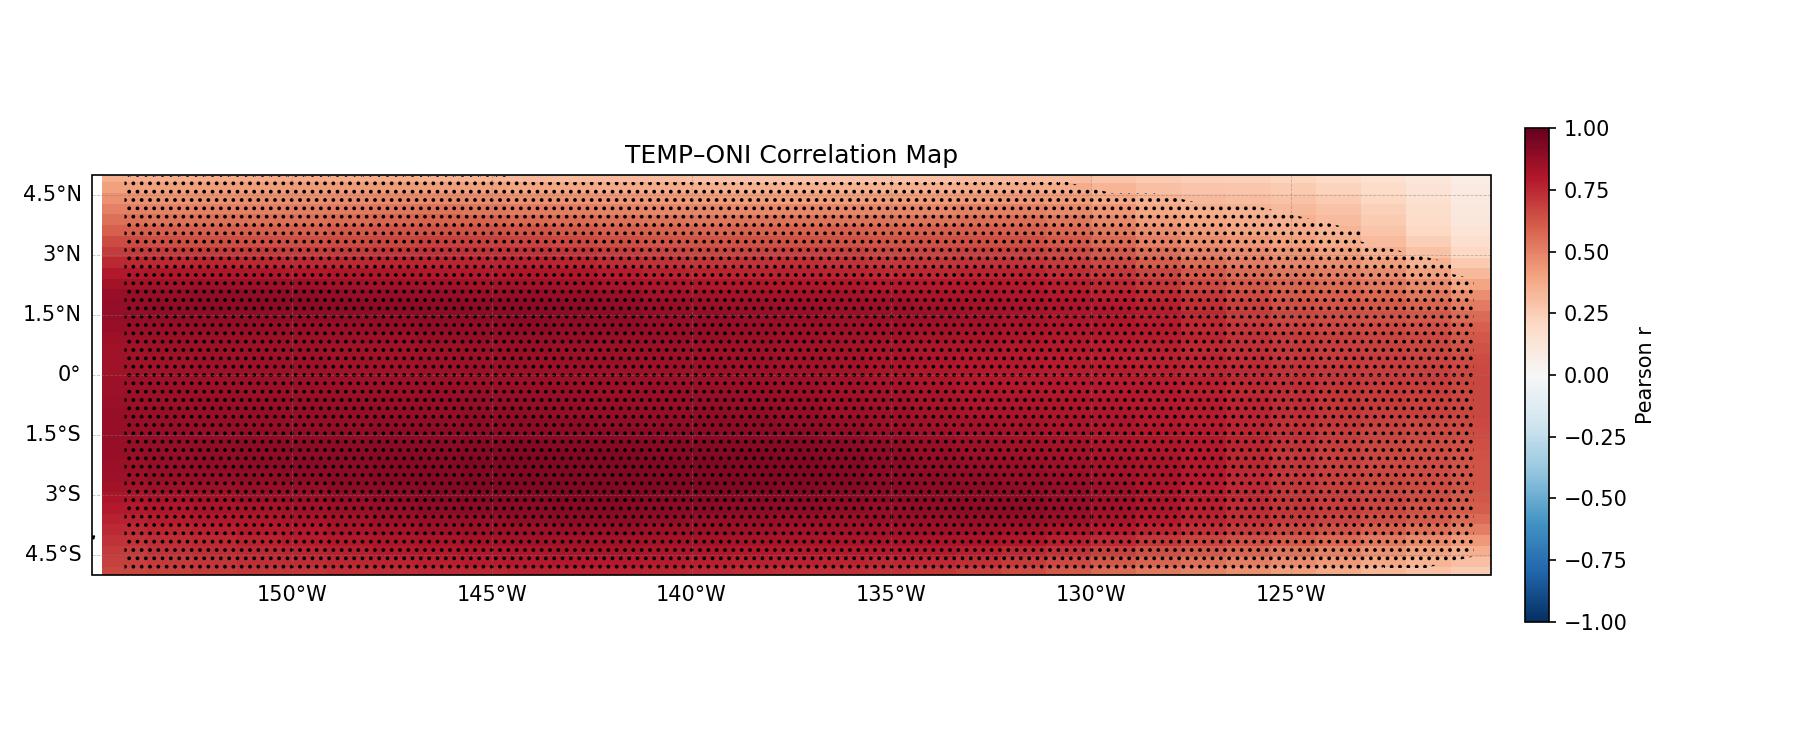
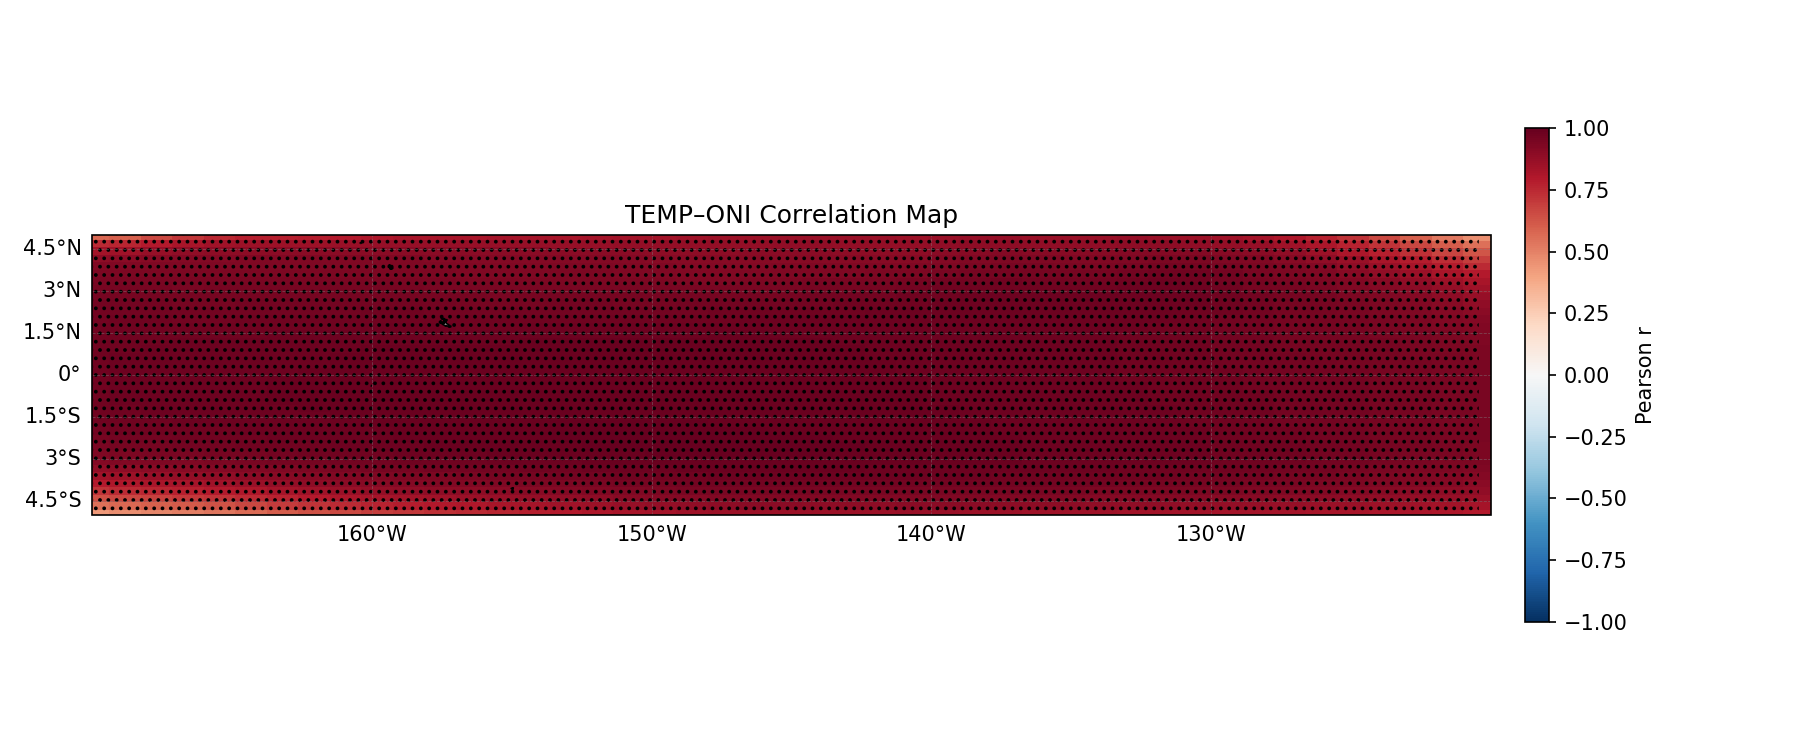
added variable and index arguments for launching (still need to make more universal functions)

diff --git a/ocn_cli_analysis/ocean_climate_ensemble.py b/ocn_cli_analysis/ocean_climate_ensemble.py
@@ -1,10 +1,9 @@
 """
 ocean_climate_ensemble.py
 =========================
-CESM2 Large Ensemble — Ocean Temperature × ENSO Analysis
+CESM2 Large Ensemble — Ocean Variables × Climate Index Analysis
 ---------------------------------------------------------
-Pipeline
-  1. Load TEMP over the ENSO box (CLI-specified region), member 0 only
+  1. Load TEMP over the Lat/Lon box (CLI-specified region), member 0 only
   2. Compute Niño-3.4 index and ONI
   3. Classify ENSO phase (El Niño / La Niña / Neutral)
   4. Time series: ONI and TEMP anomaly
@@ -14,12 +13,14 @@ Pipeline
 
 Usage
 -----
-python ocean_climate_ensemble.py \\
-    --component ocn \\
-    --scenario historical \\
-    --forcing cmip6 \\
-    --time-slice 1990-01 2014-12 \\
-    --lat-box 5 -5 \\
+python ocean_climate_ensemble.py
+    --component ocn 
+    --scenario historical 
+    --forcing cmip6 
+    --variable TEMP
+    --index ENSO
+    --time-slice 1990-01 2014-12 
+    --lat-box 5 -5 
     --lon-box -155 -120
 """
 
@@ -28,19 +29,18 @@ import argparse
 import numpy as np
 import xarray as xr
 
-from loader import _get_dataset, compute_anomaly
+from loader import _get_dataset#, compute_anomaly
 from enso import compute_nino34, compute_oni, classify_enso
 from lag import lag_correlation
 from correlation import correlation_map, significance_mask
-from composite import composite_by_phase, composite_difference
 import timeseries
 
 
-def load_enso_box(members, *, component, scenario, forcing,time_slice, lat_box, lon_box):
+def load_CESM2_box(members, *, component, scenario, forcing, variable, time_slice, lat_box, lon_box):
     """Load TEMP over the specified box for given member(s)."""
     print("Loading TEMP")
     da = _get_dataset(
-        "TEMP",
+        variable,
         component=component,
         scenario=scenario,
         forcing=forcing,
@@ -61,11 +61,13 @@ def spatial_mean_ts(da: xr.DataArray) -> xr.DataArray:
 
 
 def main():
-    parser = argparse.ArgumentParser(description="CESM2-LE Ocean Temperature × ENSO analysis")
+    parser = argparse.ArgumentParser(description="CESM2-LE Ocean Temperature ENSO analysis")
     
     parser.add_argument("--component",  type=str, required=True,choices=["atm", "ocn"])
     parser.add_argument("--scenario",   type=str, required=True,choices=["historical", "ssp370"])
     parser.add_argument("--forcing",    type=str, required=True,choices=["cmip6", "smbb"])
+    parser.add_argument("--variable",   type=str, required=True)
+    parser.add_argument("--index",      type=str, required=True)
     parser.add_argument("--time-slice", type=str, nargs=2, required=True,metavar=("START", "END"),help="e.g. 1990-01 2014-12")
     parser.add_argument("--lat-box",    type=float, nargs=2, required=True,metavar=("NORTH", "SOUTH"),help="e.g. 5 -5  (north first)")
     parser.add_argument("--lon-box",    type=float, nargs=2, required=True,metavar=("WEST", "EAST"),help="e.g. -155 -120  (negative °W accepted)")
@@ -76,6 +78,8 @@ def main():
     COMPONENT  = args.component
     SCENARIO   = args.scenario
     FORCING    = args.forcing
+    VARIABLE   = str(args.variable)
+    INDEX      = str(args.index)
     TIME_SLICE = tuple(args.time_slice)
     LAT_BOX    = tuple(args.lat_box)
     LON_BOX    = tuple(args.lon_box)
@@ -85,15 +89,17 @@ def main():
     # -----------------------------------------------------------------------
     # 1. Load data — member 0 only
     # -----------------------------------------------------------------------
-    da_m0 = load_enso_box(
-        members=0,
-        component=COMPONENT,
-        scenario=SCENARIO,
-        forcing=FORCING,
-        time_slice=TIME_SLICE,
-        lat_box=LAT_BOX,
-        lon_box=LON_BOX,
-    )  
+    if VARIABLE == "TEMP":
+        da_m0 = load_CESM2_box(
+            members=0,
+            component=COMPONENT,
+            scenario=SCENARIO,
+            forcing=FORCING,
+            variable=VARIABLE,
+            time_slice=TIME_SLICE,
+            lat_box=LAT_BOX,
+            lon_box=LON_BOX,
+        )  
 
     # -----------------------------------------------------------------------
     # 2. Niño-3.4 index and ONI
@@ -120,14 +126,12 @@ def main():
     ts_m0 = spatial_mean_ts(anom_m0)
 
     # -----------------------------------------------------------------------
-    # 4. Time series: raw Niño-3.4 vs smoothed ONI (one combined plot)
+    # 4. Time series: Niño-3.4 vs smoothed ONI (one combined plot)
     # -----------------------------------------------------------------------
     print("\nPlotting time series …")
-    timeseries.plot_nino34_vs_oni(
-        nino34_m0,
-        oni_m0,
-        title="Niño-3.4 vs ONI",
-    )
+    timeseries.plot_nino34_vs_oni(nino34_m0,
+                                  oni_m0,
+                                  title="Niño-3.4 vs ONI",)
 
     # -----------------------------------------------------------------------
     # 5. Lag correlation: spatially averaged TEMP vs ONI
@@ -135,11 +139,9 @@ def main():
     print("\nComputing lag correlations …")
     lagcorr_m0 = lag_correlation(ts_m0, oni_m0, LAGS)
 
-    timeseries.plot_lag_correlation(
-        lagcorr_m0,
-        title="Lag Correlation: ENSO-box TEMP vs ONI",
-        member_label="Member 0",
-    )
+    timeseries.plot_lag_correlation(lagcorr_m0,
+                                    title="Lag Correlation: TEMP vs ONI",
+                                    member_label="Member 0",)
 
     # -----------------------------------------------------------------------
     # 6. Correlation maps (pointwise TEMP anomaly vs ONI)
@@ -162,38 +164,19 @@ def main():
     else:
         print("  [warning] TLAT/TLONG not found on da_m0 — map will use index coords")
 
-    timeseries.plot_correlation_map(
-        corr_map_m0,
-        sig_mask=sig_map_m0,
-        title="TEMP–ONI Correlation Map",
-        lat_bounds=(min(LAT_BOX), max(LAT_BOX)),
-        lon_bounds=(min(LON_BOX), max(LON_BOX)),
-    )
+    timeseries.plot_correlation_map(corr_map_m0,
+                                    sig_mask=sig_map_m0,
+                                    title="TEMP–ONI Correlation Map",
+                                    lat_bounds=(min(LAT_BOX), max(LAT_BOX)),
+                                    lon_bounds=(min(LON_BOX), max(LON_BOX)),)
 
-    # -----------------------------------------------------------------------
-    # 7. Composite maps
-    # -----------------------------------------------------------------------
-    print("\nBuilding composite maps …")
-
-    comp_m0 = composite_by_phase(anom_m0, phase_m0)
-    diff_m0 = composite_difference(anom_m0, phase_m0)
-    en_m0   = comp_m0.get("El Nino")
-    ln_m0   = comp_m0.get("La Nina")
-
-    if en_m0 is not None and ln_m0 is not None and diff_m0 is not None:
-        timeseries.plot_composite_map(
-            en_m0, ln_m0, diff_m0,
-            title_prefix="TEMP Composite",
-        )
-    else:
-        print("  Skipping composite map — one or more phases absent from time slice")
 
     # -----------------------------------------------------------------------
     # Summary
     # -----------------------------------------------------------------------
     print("\n=== Analysis complete ===")
     print(f"Time period : {TIME_SLICE[0]} – {TIME_SLICE[1]}")
-    print(f"ENSO box    : {LAT_BOX[0]}°N – {abs(LAT_BOX[1])}°S, "
+    print(f"Lat-Lon box    : {LAT_BOX[0]}°N – {abs(LAT_BOX[1])}°S, "
           f"{abs(LON_BOX[0])}°W – {abs(LON_BOX[1])}°W")
     print(f"Lag range   : {LAGS[0]} … {LAGS[-1]} months")
 
